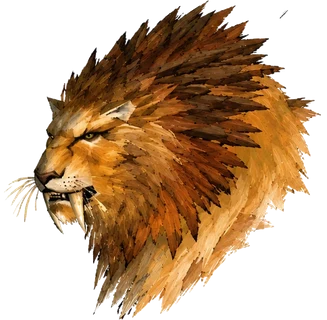
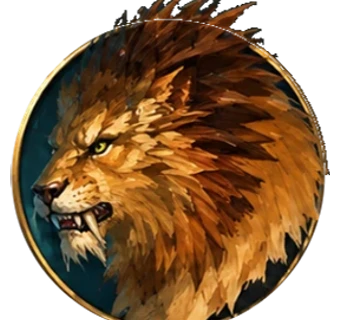
Forever: retratos en medallón del Top 5 de mascotas

diff --git a/src/styles/forever.css b/src/styles/forever.css
@@ -1256,23 +1256,12 @@ pre.mf-code { align-self: start; margin: 0; padding: 12px 14px; overflow-x: auto
 .t5-rank { font: 800 30px/1 var(--font-display); color: var(--brand-text); }
 .t5-card .t5-rank { position: absolute; top: 12px; left: 14px; }
 .t5-card--1 .t5-rank, .t5-ficha--1 .t5-rank { color: var(--gold); }
-/* Retrato: cabeza ilustrada (public/pets/<id>.webp, fondo transparente) que asoma por encima del círculo.
-   La caja es más alta que el círculo y solo redondea abajo: el círculo recorta el busto y la cabeza sale por arriba.
-   ::after = mitad inferior del aro por delante del busto (efecto de atravesarlo). */
-.t5-port {
-  --s: 116px; --aro: color-mix(in srgb, var(--brand) 70%, transparent); --halo: color-mix(in srgb, var(--brand) 24%, var(--bg3));
-  position: relative; display: block; flex-shrink: 0; width: var(--s); height: calc(var(--s) * 1.28);
-  border-radius: 0 0 calc(var(--s) / 2) calc(var(--s) / 2); overflow: hidden;
-}
-.t5-port::before, .t5-port::after { content: ''; position: absolute; left: 0; bottom: 0; width: var(--s); height: var(--s); border-radius: 50%; }
-.t5-port::before { background: radial-gradient(circle at 50% 62%, var(--halo), var(--bg3) 72%); box-shadow: inset 0 0 0 2px var(--aro); }
-.t5-port::after { z-index: 2; box-shadow: inset 0 0 0 2px var(--aro); clip-path: inset(62% 0 0 0); }
-.t5-port img {
-  position: absolute; z-index: 1; left: 50%; bottom: 0; width: calc(var(--s) * 1.1); height: auto; transform: translateX(-50%);
-  filter: drop-shadow(0 4px 6px rgb(0 0 0 / 0.6)); transform-origin: 50% 100%; transition: transform 0.25s var(--ease);
-}
-.t5-card__btn:hover .t5-port img { transform: translateX(-50%) translateY(-3px) scale(1.05); }
-.t5-card--1 .t5-port, .t5-ficha--1 .t5-port { --aro: var(--gold); --halo: color-mix(in srgb, var(--gold) 28%, var(--bg3)); }
+/* Retrato: medallón ilustrado (public/pets/<id>.webp, 320 px, fondo transparente). La imagen ya trae el aro dorado
+   abajo y lo que sobresale (orejas, melena, plumas) arriba, así que aquí solo se da tamaño, sombra y el salto al pasar el ratón. */
+.t5-port { --s: 132px; display: block; flex-shrink: 0; width: var(--s); height: var(--s); }
+.t5-port img { display: block; width: 100%; height: 100%; filter: drop-shadow(0 6px 10px rgb(0 0 0 / 0.55)); transform-origin: 50% 100%; transition: transform 0.25s var(--ease), filter 0.25s var(--ease); }
+.t5-card__btn:hover .t5-port img { transform: translateY(-4px) scale(1.04); }
+.t5-card--1 .t5-port img, .t5-ficha--1 .t5-port img { filter: drop-shadow(0 6px 10px rgb(0 0 0 / 0.55)) drop-shadow(0 0 14px color-mix(in srgb, var(--gold) 40%, transparent)); }
 .t5-card__name { font: 700 22px/1.1 var(--font-display); letter-spacing: 0.03em; color: var(--text); }
 .t5-card__meta { font-size: 15px; color: var(--text3); }
 .t5-vel { padding: 5px 10px; font-size: 14px; color: var(--text2); background: var(--bg3); border-radius: 4px; box-shadow: inset 0 0 0 1px var(--border2); }
@@ -1316,7 +1305,7 @@ pre.mf-code { align-self: start; margin: 0; padding: 12px 14px; overflow-x: auto
 .t5-id__info { display: grid; gap: 8px; min-width: 0; }
 .t5-id__badges { display: flex; flex-wrap: wrap; gap: 6px; }
 .t5-id__acc { display: flex; flex-wrap: wrap; align-items: center; gap: 8px 14px; }
-.t5-port--big { --s: 80px; height: calc(var(--s) * 1.25); }
+.t5-port--big { --s: 100px; }
 
 /* Textos que se copian al pulsar (/tar y /way): pinta de comando del juego, con aviso «Copiado» */
 .t5-copy {
@@ -1416,7 +1405,7 @@ pre.mf-code { align-self: start; margin: 0; padding: 12px 14px; overflow-x: auto
   .t5-ficha__body { padding: 12px 18px; }
   .t5-ficha__head h4 { font-size: 23px; }
   .t5-ficha__head p { font-size: 13.5px; }
-  .t5-port--big { --s: 64px; }
+  .t5-port--big { --s: 80px; }
   .t5-id__info { gap: 6px; }
   .t5-caza p, .t5-why p:not(.t5-lbl), .t5-dieta { font-size: 14.5px; line-height: 1.45; margin-bottom: 6px; }
   .t5-speed__num b { font-size: 42px; }

diff --git a/CHANGELOG.md b/CHANGELOG.md
@@ -16,9 +16,10 @@ Es distinto de `src/content/data/changelog.json`, que es la lista de cambios par
 
 ---
 
-## 2026-11-16 — Forever: retratos ilustrados del Top 5 de mascotas
-- Las miniaturas del modelo se sustituyen por cabezas ilustradas (hechas con Gemini por Mishuko, estilo WoW clásico): una hoja con las 5, recortada y sin fondo blanco con un script de relleno desde los bordes (más una mancha amarilla junto a la oreja de Diente partido), 320 px, en `public/pets/<id>.webp`.
-- Efecto «sale del círculo»: `.t5-port` es más alta que el círculo y solo redondea abajo (`overflow: hidden`), así el busto queda recortado por el círculo y la cabeza asoma por arriba; `::after` pinta la mitad inferior del aro por delante del busto. Aro verde (dorado en la #1). Tamaño con `--s` (116 px tarjeta, 80 px ficha, 64 px en pantallas bajas). Para que la ficha siga cabiendo, el mapa usa `calc((100dvh - 581px) * 1.5)` (comprobado 1024×768 y 1366×657).
+## 2026-11-16 — Forever: retratos en medallón del Top 5 de mascotas
+- Retratos = medallones ilustrados que pasó Mishuko (tira de 5 con aro dorado y fondo de tarjeta). Recortados con un script: dentro del aro se queda todo; fuera, solo lo que sobresale por arriba (orejas, melena, plumas) y está conectado con el aro, sin el fondo verde azulado. La tira venía achatada (aros elípticos ~132×126 px), así que se recorta como elipse y se estira para dejarla redonda. 320 px con transparencia en `public/pets/<id>.webp`.
+- `.t5-port` ya no dibuja círculo ni aro (vienen en la imagen): solo tamaño (`--s`: 132 px tarjeta, 100 px ficha, 80 px en pantallas bajas), sombra (con brillo dorado en la #1) y salto al pasar el ratón. Ficha comprobada sin scroll a 1024×768.
+- Antes se probaron cabezas sueltas de Gemini con círculo y aro hechos en CSS; Mishuko prefirió este estilo.
 
 ## 2026-11-16 — Forever: Top 5 mascotas (estilo Pokédex) en Mascotas
 - Sección `#pf-top5` al principio de `/forever/mascotas/` (primera del índice): 5 tarjetas (#1 → #5) con filtro por uso (Leveo, Mazmorras, PvP, Tanqueo AoE) y ficha en `<dialog>` con Anterior/Siguiente (también flechas del teclado): retrato (icono de familia), rareza y nivel, enlace al modelo 3D de Wowhead, mapa de la zona (zamimg classic es-ES) con todos los avistamientos en puntos y los principales como pines (pasar el ratón / tocar = coordenadas), reaparición y consejo, velocidad de ataque destacada (cifra grande, barra y golpes por minuto; sin salud/armadura/daño de familia, a petición de Mishuko), dieta, habilidad que enseña al domesticarla, qué enseñarle (sin repetir lo que ya trae), por qué es top y cuándo usarla. Evento GA4 `mascota_ficha`. El tooltip propio (`#tooltip`) se mueve dentro del modal mientras está abierto.
